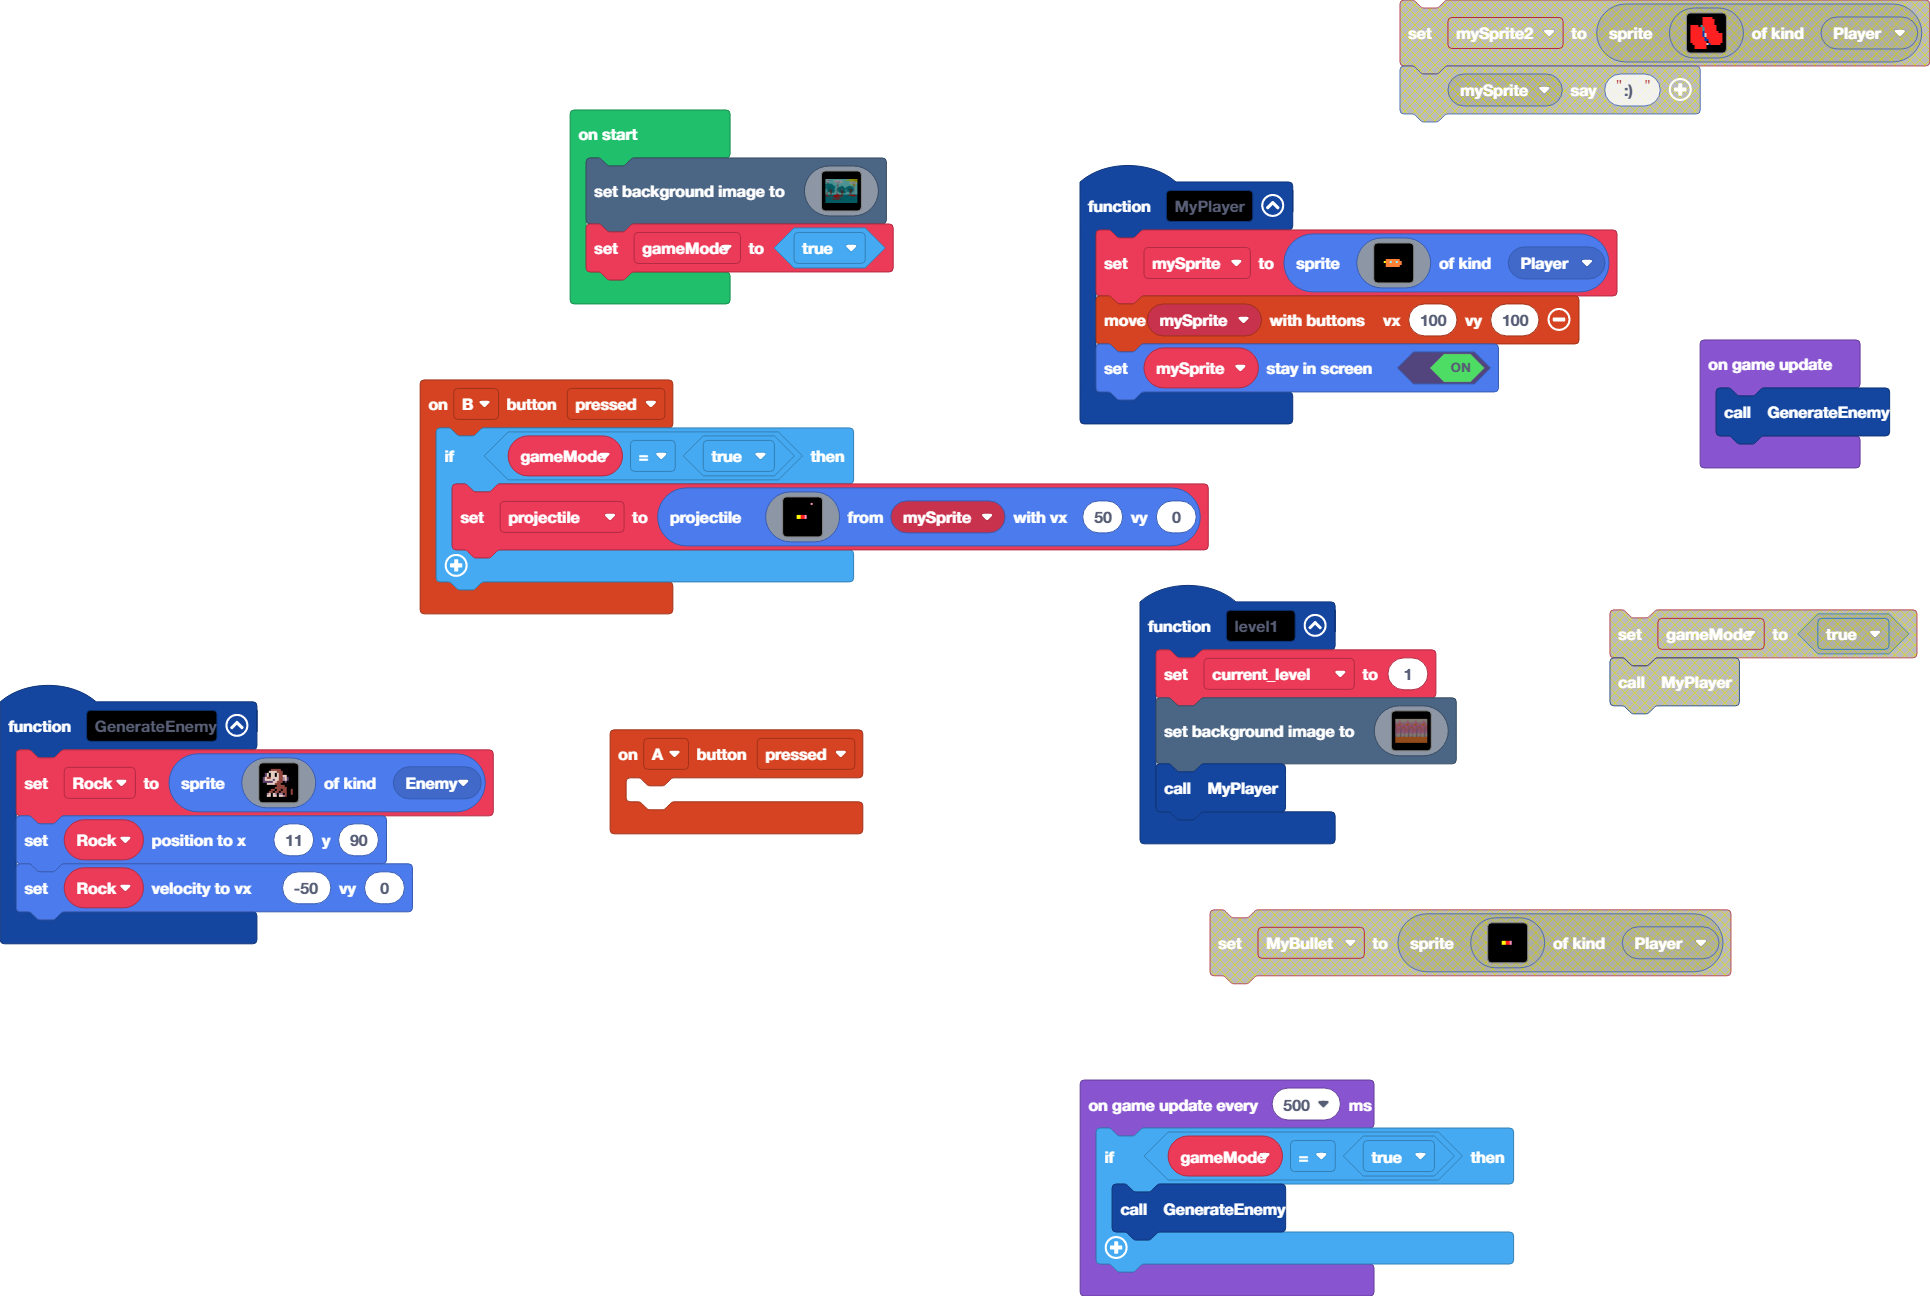
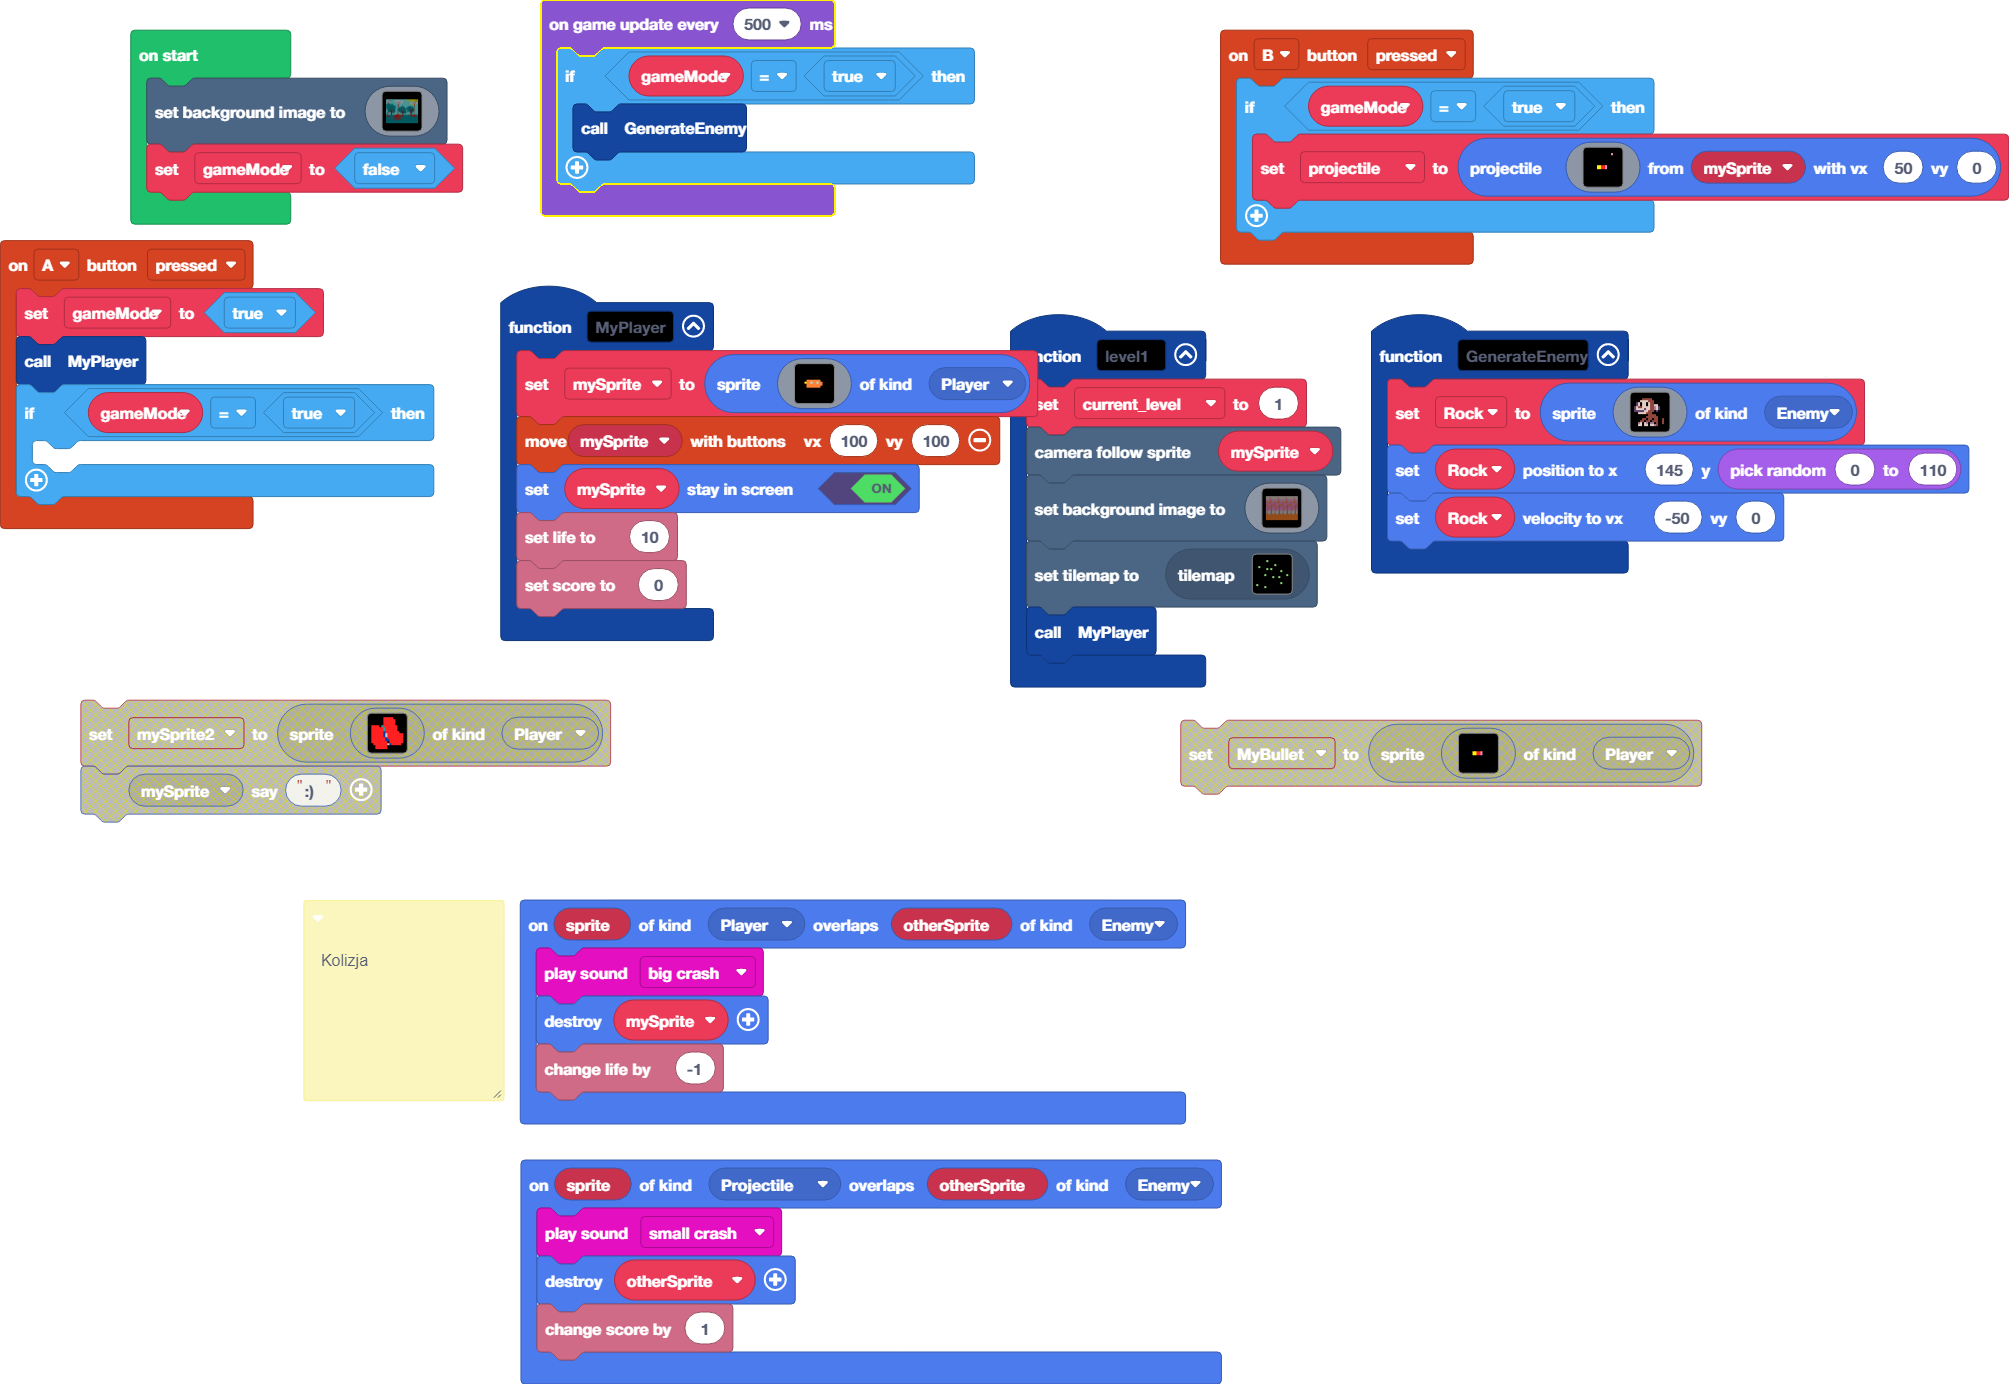
enemies

diff --git a/main.ts b/main.ts
@@ -22,6 +22,7 @@ controller.B.onEvent(ControllerButtonEvent.Pressed, function () {
 })
 function level1 () {
     current_level = 1
+    scene.cameraFollowSprite(mySprite)
     scene.setBackgroundImage(img`
         dddddddddddddddddddddddddddddddddddddddddddddddddddddddddddddddddddddddddddddddddddddddddddddddddddddddddddddddddddddddddddddddddddddddddddddddddddddddddddddddd
         dddddddddddddddddddddddddddddddddddddddddddddddddddddddddddddddddddddddddddddddddddddddddddddddddddddddddddddddddddddddddddddddddddddddddddddddddddddddddddddddd
@@ -144,10 +145,15 @@ function level1 () {
         4444444444444444444444444444444444444444444444444444444444444444444444444444444444444444444444444444444444444444444444444444444444444444444444444444444444444444
         4444444444444444444444444444444444444444444444444444444444444444444444444444444444444444444444444444444444444444444444444444444444444444444444444444444444444444
         `)
+    tiles.setCurrentTilemap(tilemap`level1`)
     MyPlayer()
 }
 controller.A.onEvent(ControllerButtonEvent.Pressed, function () {
-	
+    gameMode = true
+    MyPlayer()
+    if (gameMode == true) {
+    	
+    }
 })
 function GenerateEnemy () {
     Rock = sprites.create(img`
@@ -168,7 +174,7 @@ function GenerateEnemy () {
         . f d d f d d f d d b e f f f f 
         . . f f f f f f f f f f f f f . 
         `, SpriteKind.Enemy)
-    Rock.setPosition(11, 90)
+    Rock.setPosition(145, randint(0, 110))
     Rock.setVelocity(-50, 0)
 }
 function MyPlayer () {
@@ -192,17 +198,29 @@ function MyPlayer () {
         `, SpriteKind.Player)
     controller.moveSprite(mySprite, 100, 100)
     mySprite.setStayInScreen(true)
+    info.setLife(10)
+    info.setScore(0)
 }
+sprites.onOverlap(SpriteKind.Projectile, SpriteKind.Enemy, function (sprite, otherSprite) {
+    music.smallCrash.play()
+    otherSprite.destroy()
+    info.changeScoreBy(1)
+})
+/**
+ * Kolizja
+ */
+sprites.onOverlap(SpriteKind.Player, SpriteKind.Enemy, function (sprite, otherSprite) {
+    music.bigCrash.play()
+    mySprite.destroy()
+    info.changeLifeBy(-1)
+})
 let Rock: Sprite = null
 let current_level = 0
 let mySprite: Sprite = null
 let projectile: Sprite = null
 let gameMode = false
 scene.setBackgroundImage(assets.image`woods`)
-gameMode = true
-game.onUpdate(function () {
-    GenerateEnemy()
-})
+gameMode = false
 game.onUpdateInterval(500, function () {
     if (gameMode == true) {
         GenerateEnemy()

diff --git a/tilemap.g.ts b/tilemap.g.ts
@@ -3,6 +3,31 @@ namespace myTiles {
     //% fixedInstance jres blockIdentity=images._tile
     export const transparency16 = image.ofBuffer(hex``);
 
+    helpers._registerFactory("tilemap", function(name: string) {
+        switch(helpers.stringTrim(name)) {
+            case "level1":
+            case "level1":return tiles.createTilemap(hex`1000100000000000000000000000000000000000000000000001000000000000000000000000000000000000000000000000000000000000000000000001000000000000000100000000000000000000000000000000000000010001000000000000000000000000000000000000000001000000000000000000000000000000000000000000000001000000000000000000000100000000000000000100000100000000000000000000000000000000000000000000000000000000000000000000000000000000000000000000000001000000010000000000000000000000000000000000000001000000000000000000000000000000000000000000000000000000`, img`
+. . . . . . . . . . . . . . . . 
+. . . . . . . . . . . . . . . . 
+. . . . . . . . . . . . . . . . 
+. . . . . . . . . . . . . . . . 
+. . . . . . . . . . . . . . . . 
+. . . . . . . . . . . . . . . . 
+. . . . . . . . . . . . . . . . 
+. . . . . . . . . . . . . . . . 
+. . . . . . . . . . . . . . . . 
+. . . . . . . . . . . . . . . . 
+. . . . . . . . . . . . . . . . 
+. . . . . . . . . . . . . . . . 
+. . . . . . . . . . . . . . . . 
+. . . . . . . . . . . . . . . . 
+. . . . . . . . . . . . . . . . 
+. . . . . . . . . . . . . . . . 
+`, [myTiles.transparency16,sprites.castle.tileGrass2], TileScale.Sixteen);
+        }
+        return null;
+    })
+
     helpers._registerFactory("tile", function(name: string) {
         switch(helpers.stringTrim(name)) {
             case "transparency16":return transparency16;
